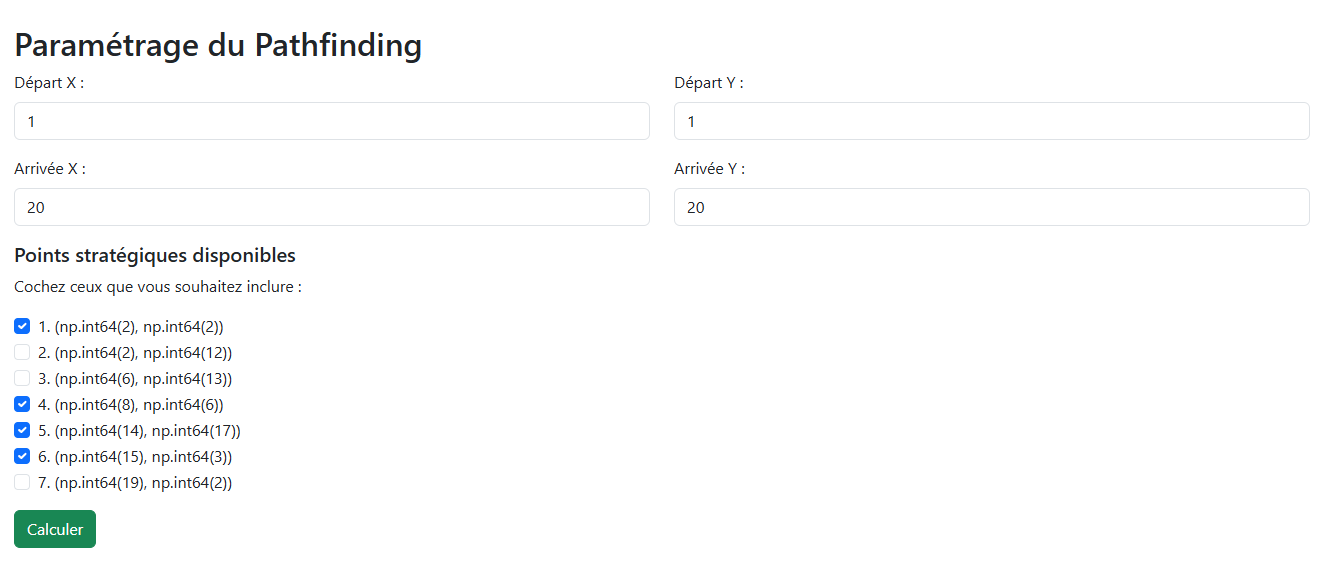
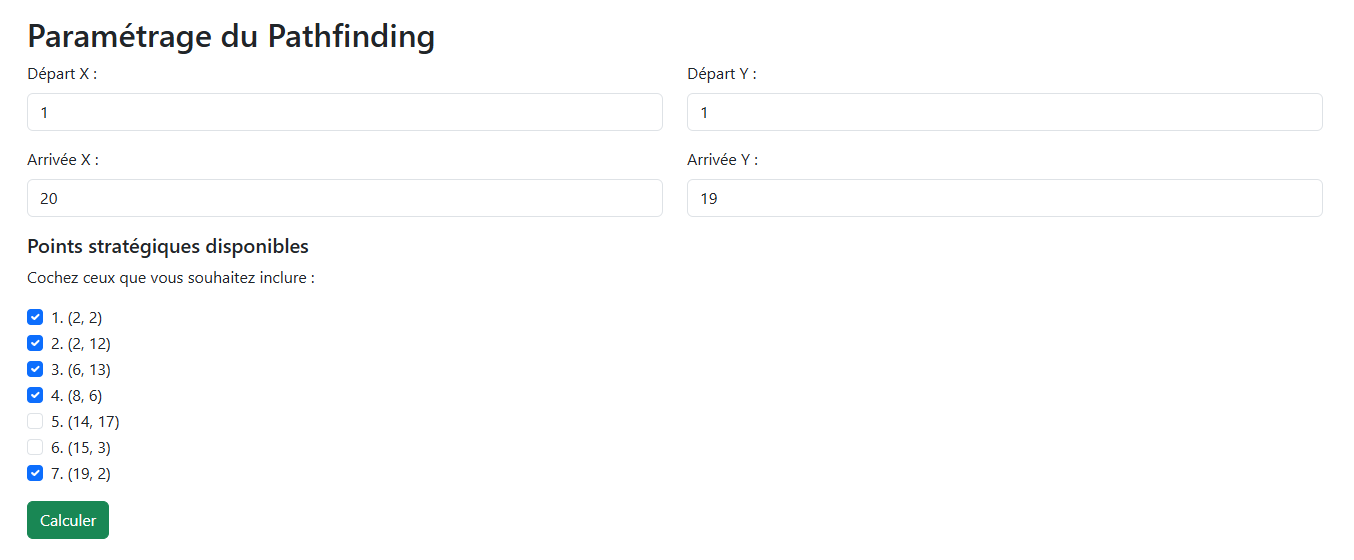
Readme.md

diff --git a/app.py b/app.py
@@ -59,15 +59,16 @@ def upload():
     GLOBAL_MAP_DF = map_df
 
     # strategic_points
-    GLOBAL_STRATEGIC_POINTS = [tuple(row) for row in strat_df.values]
+    GLOBAL_STRATEGIC_POINTS = [
+        tuple(int(v) for v in row)
+        for row in strat_df.values
+    ]
 
     # interest_points
     d = {}
     disp_interest = []
     for _, row in interest_df.iterrows():
-        x = row[0]
-        y = row[1]
-        gain = row[2]
+        x, y, gain = int(row[0]), int(row[1]), int(row[2])
         d[(x, y)] = gain
         disp_interest.append((x, y))
 
